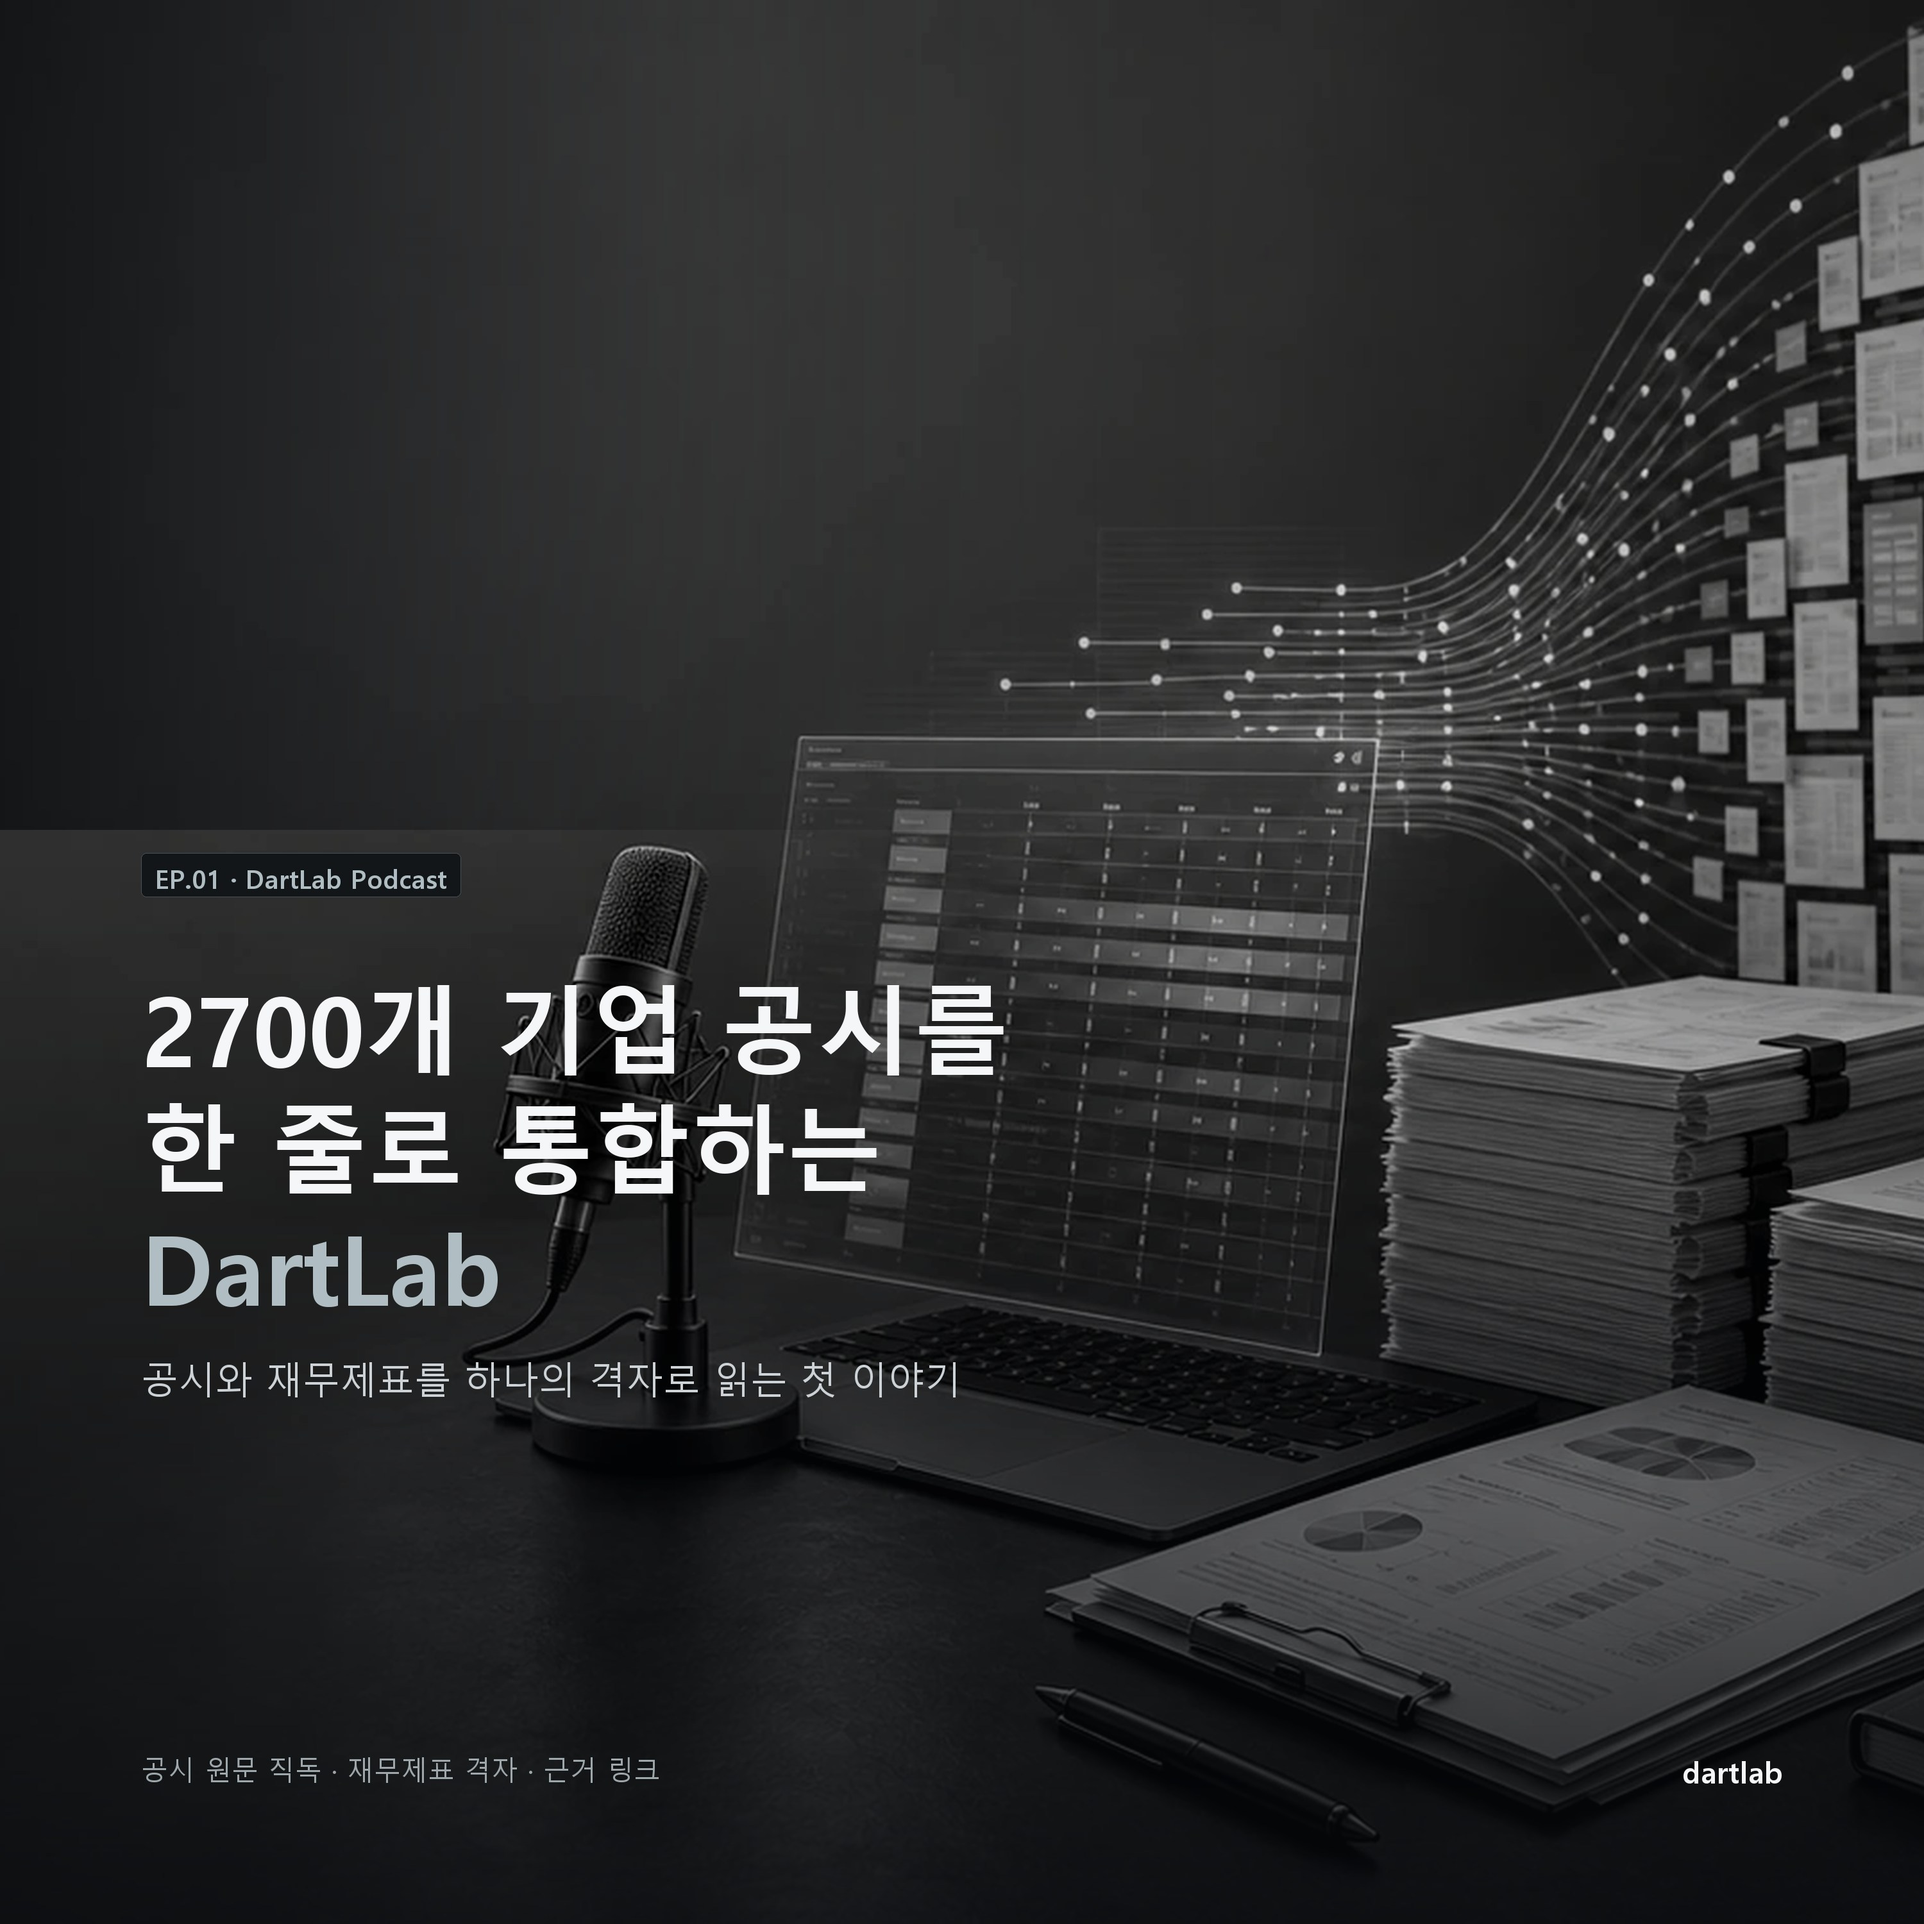
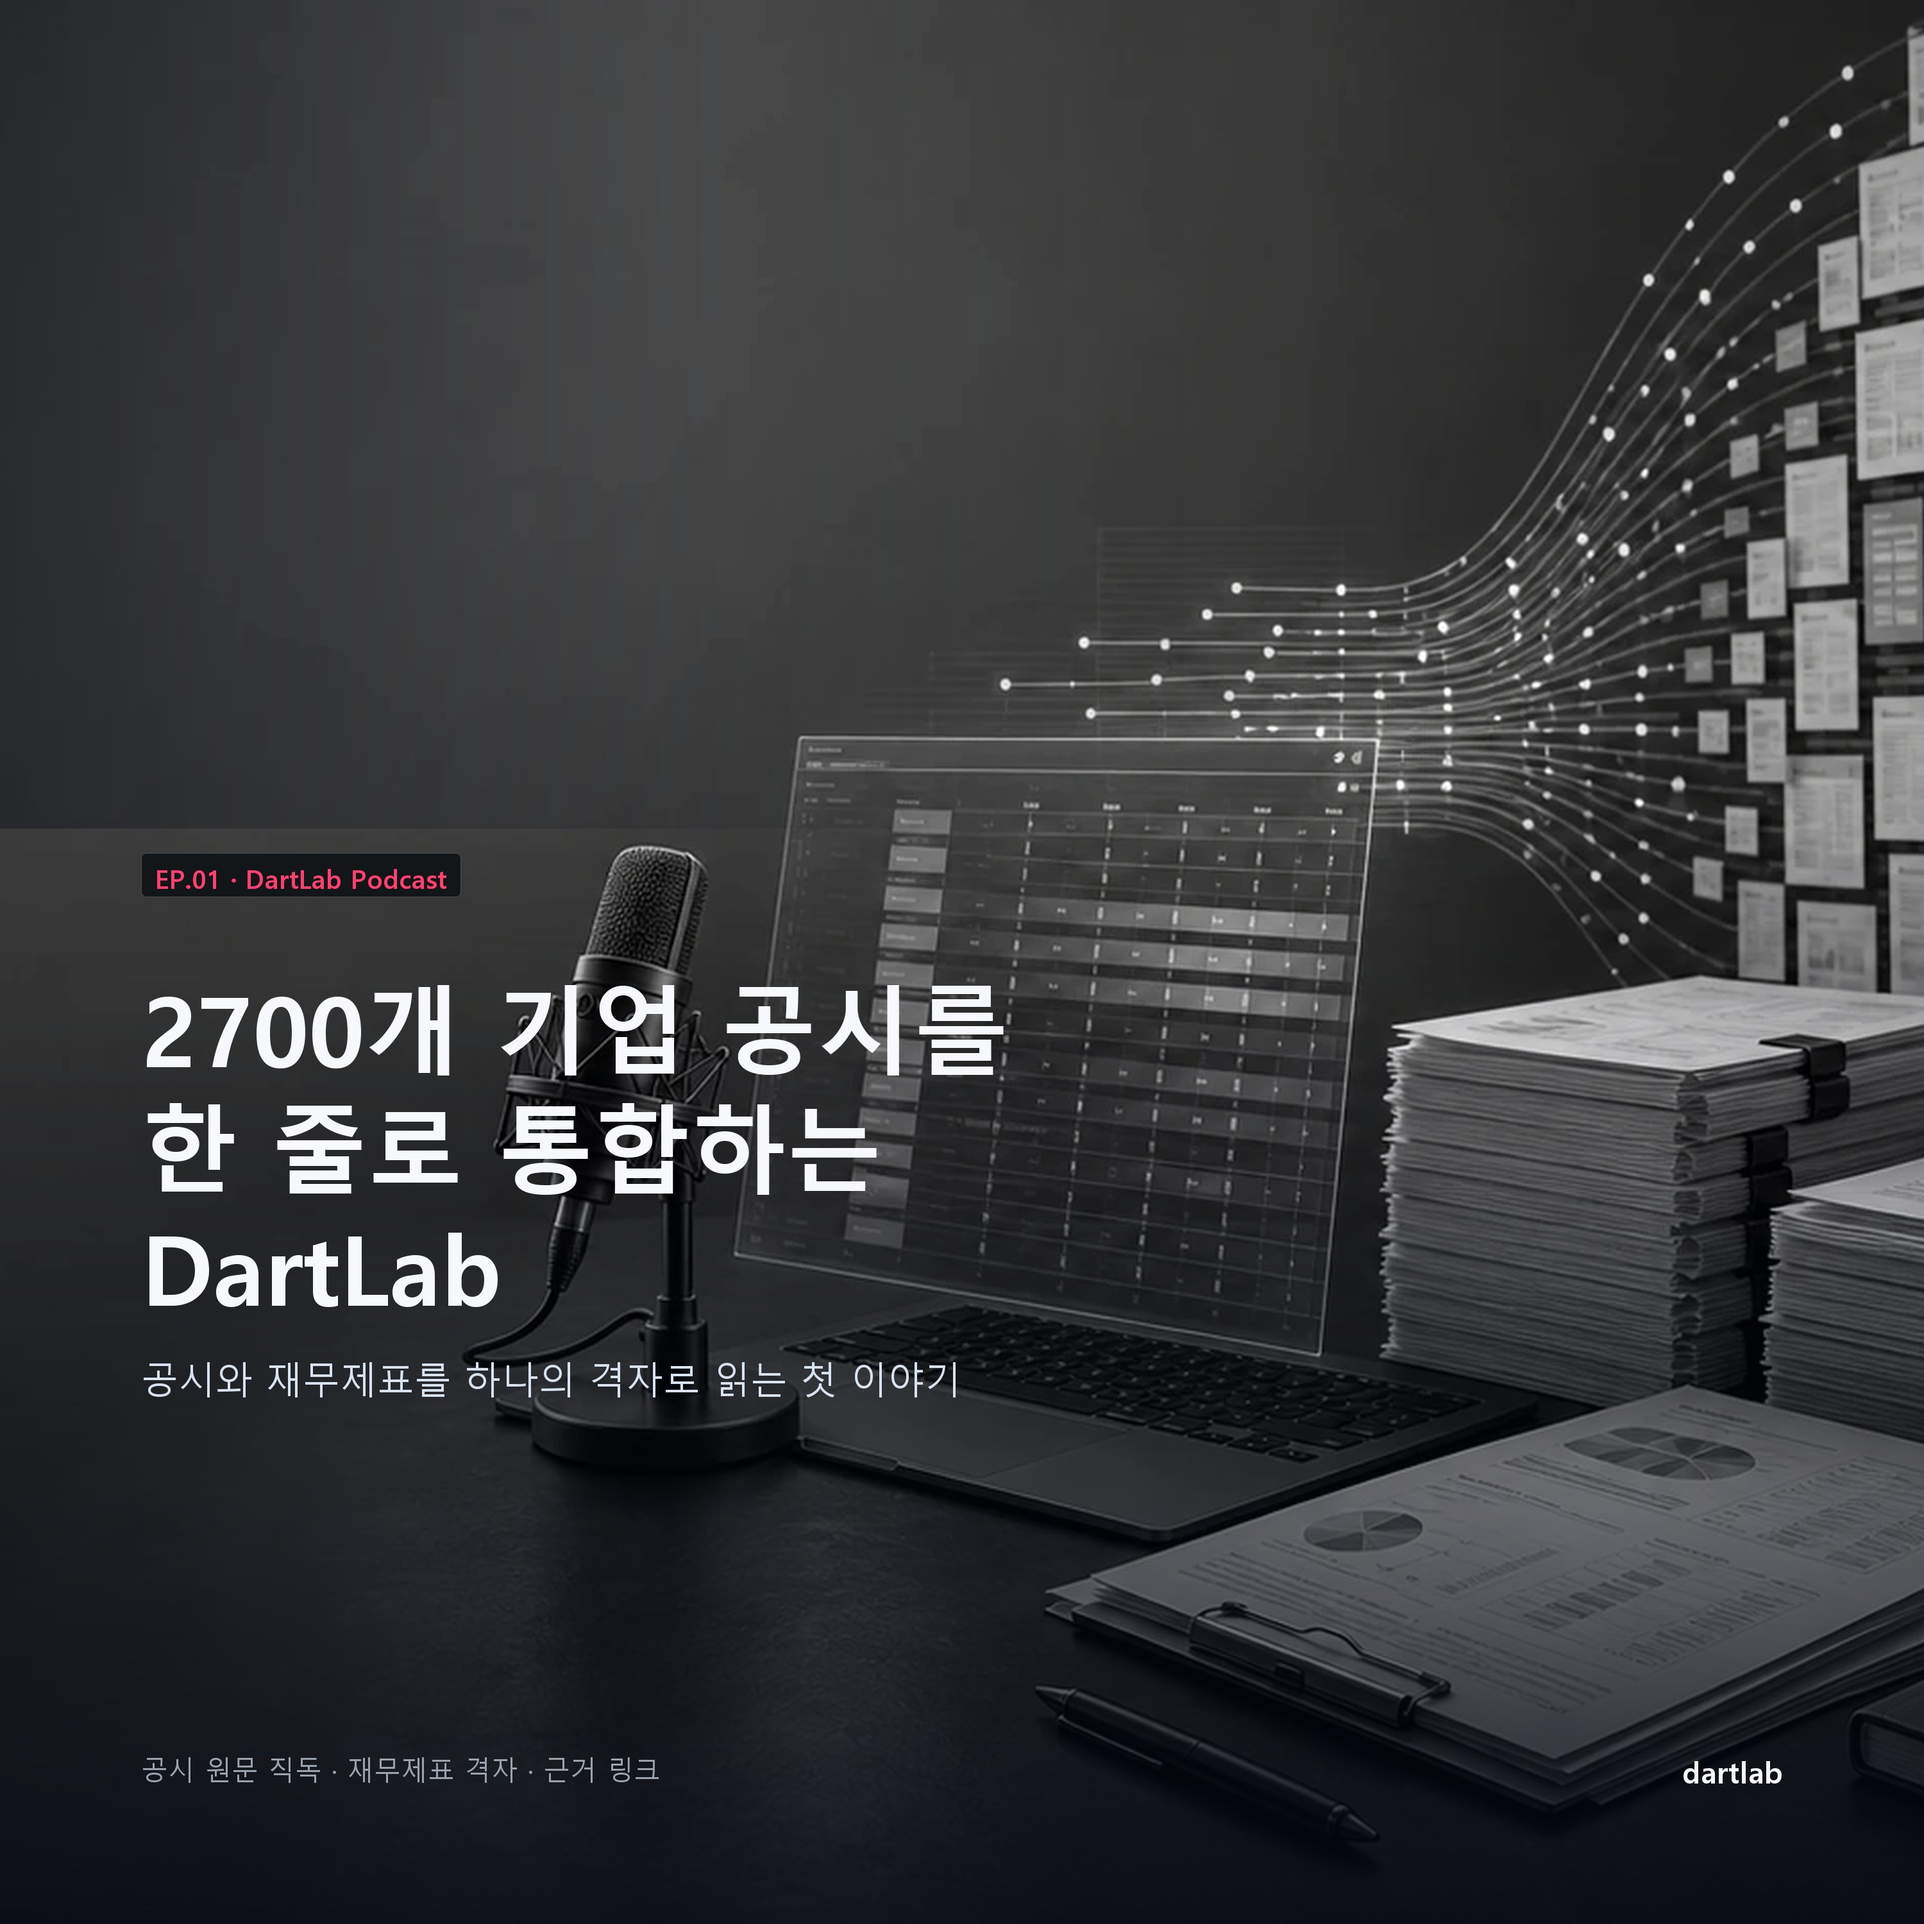
개선: 팟캐스트 스틸을 카드 시각언어(흑백+로즈 강조)로 렌더
- card_style.py: theme.ts/CardSlide 팔레트·grayscale 0.82/contrast 1.04/brightness 1.04·accentParts 파이썬 미러
- render_episode_image.py: 카드 룩 적용(로즈 #ff3f6f, [[강조]] 파싱, scrim 하단가중)
- publish_podcast.py: --render-images 로 발행 전 스틸 자동 생성
- P01 커버/정적 카드풍 재렌더(R2 반영은 다음 발행)

diff --git a/blog/_podcasts/_lib/render_episode_image.py b/blog/_podcasts/_lib/render_episode_image.py
@@ -11,6 +11,17 @@ import argparse
 from pathlib import Path
 
 import yaml
+from card_style import (
+    ACCENT_RGB,
+    BG_RGB,
+    BRIGHTNESS,
+    CONTRAST,
+    DIM_RGB,
+    GRAYSCALE,
+    INK_RGB,
+    MUTED_RGB,
+    accent_parts,
+)
 from PIL import Image, ImageDraw, ImageEnhance, ImageFont
 
 LIB_DIR = Path(__file__).resolve().parent
@@ -20,11 +31,12 @@ EPISODES_DIR = PODCAST_DIR / "episodes"
 FONT_BOLD = "C:/Windows/Fonts/malgunbd.ttf"
 FONT_REG = "C:/Windows/Fonts/malgun.ttf"
 
-INK = (244, 246, 248)
-DIM = (204, 210, 214)
-MUTED = (158, 167, 172)
-ACCENT = (176, 190, 196)
-BG = (6, 8, 11)
+# 카드 팔레트 미러(card_style): INK=본문, DIM=부제, MUTED=풋터, ACCENT=로즈 강조.
+INK = INK_RGB
+DIM = MUTED_RGB
+MUTED = DIM_RGB
+ACCENT = ACCENT_RGB
+BG = BG_RGB
 
 
 def load_episode(ep_dir: Path) -> dict:
@@ -55,9 +67,9 @@ def editorial_background(src: Path, width: int, height: int) -> Image.Image:
     im = Image.open(src).convert("RGB")
     im = cover_crop(im, width, height)
     gray = im.convert("L").convert("RGB")
-    im = Image.blend(im, gray, 0.9)
-    im = ImageEnhance.Contrast(im).enhance(1.08)
-    im = ImageEnhance.Brightness(im).enhance(0.84)
+    im = Image.blend(im, gray, GRAYSCALE)
+    im = ImageEnhance.Contrast(im).enhance(CONTRAST)
+    im = ImageEnhance.Brightness(im).enhance(BRIGHTNESS)
     return im
 
 
@@ -102,6 +114,16 @@ def truncate(d: ImageDraw.ImageDraw, text: str, f: ImageFont.FreeTypeFont, max_w
     return text.rstrip() + ell
 
 
+def draw_accent_line(
+    d: ImageDraw.ImageDraw, x: int, y: int, line: str, f: ImageFont.FreeTypeFont, ink: tuple, accent: tuple
+) -> None:
+    """한 줄을 그린다. `[[구절]]` 은 accent 색, 나머지는 ink (카드 강조 규약)."""
+    cx = x
+    for text, is_accent in accent_parts(line):
+        d.text((cx, y), text, fill=(accent if is_accent else ink), font=f)
+        cx += round(d.textlength(text, font=f))
+
+
 def visual_spec(meta: dict) -> dict:
     visual = meta.get("visual") or {}
     if not isinstance(visual, dict):
@@ -131,7 +153,7 @@ def draw_label(d: ImageDraw.ImageDraw, x: int, y: int, text: str, scale: float) 
 def draw_static(meta: dict, src: Path, out: Path) -> None:
     width, height = 1920, 1080
     spec = visual_spec(meta)
-    img = add_scrim(editorial_background(src, width, height), 212, 130)
+    img = add_scrim(editorial_background(src, width, height), 120, 165)
     d = ImageDraw.Draw(img)
 
     x = 128
@@ -142,9 +164,9 @@ def draw_static(meta: dict, src: Path, out: Path) -> None:
     y = 284
     for idx, line in enumerate(spec["titleLines"][:4]):
         size = 100 if idx < 3 else 82
-        f = fit_font(d, line, FONT_BOLD, size, max_w, 58)
-        fill = INK if "DartLab" not in line else ACCENT
-        d.text((x + 26, y), line, fill=fill, font=f)
+        plain = "".join(t for t, _ in accent_parts(line))
+        f = fit_font(d, plain, FONT_BOLD, size, max_w, 58)
+        draw_accent_line(d, x + 26, y, line, f, INK, ACCENT)
         y += f.size + 24
 
     sub_f = font(FONT_REG, 36)
@@ -163,7 +185,7 @@ def draw_static(meta: dict, src: Path, out: Path) -> None:
 def draw_cover(meta: dict, src: Path, out: Path) -> None:
     width, height = 3000, 3000
     spec = visual_spec(meta)
-    img = add_scrim(editorial_background(src, width, height), 168, 210)
+    img = add_scrim(editorial_background(src, width, height), 96, 225)
     d = ImageDraw.Draw(img)
 
     x = 220
@@ -172,9 +194,9 @@ def draw_cover(meta: dict, src: Path, out: Path) -> None:
     draw_label(d, x, y - 170, spec["kicker"], 1.35)
     for idx, line in enumerate(spec["titleLines"][:4]):
         size = 150 if idx < 3 else 124
-        f = fit_font(d, line, FONT_BOLD, size, max_w, 82)
-        fill = INK if "DartLab" not in line else ACCENT
-        d.text((x, y), line, fill=fill, font=f)
+        plain = "".join(t for t, _ in accent_parts(line))
+        f = fit_font(d, plain, FONT_BOLD, size, max_w, 82)
+        draw_accent_line(d, x, y, line, f, INK, ACCENT)
         y += f.size + 36
 
     sub_f = font(FONT_REG, 58)

diff --git a/blog/_podcasts/_lib/publish_podcast.py b/blog/_podcasts/_lib/publish_podcast.py
@@ -583,6 +583,16 @@ def upload_cover(env: dict, channel: dict, dry_run: bool) -> None:
     out_jpg.unlink(missing_ok=True)
 
 
+def render_episode_stills(episode_ids: list[str]) -> None:
+    """render_episode_image.py 를 subprocess 로 호출해 카드풍 스틸(커버/정적)을 생성한다(업로드 전)."""
+    renderer = LIB_DIR / "render_episode_image.py"
+    for ep_id in episode_ids:
+        try:
+            subprocess.run([sys.executable, str(renderer), "--episode", ep_id], check=True)
+        except subprocess.CalledProcessError as exc:
+            print(f"[render] {ep_id} 스틸 생성 실패(소스 없음 등), 건너뜀: {exc}")
+
+
 def upload_episode_images(env: dict, channel: dict, records: list[dict], dry_run: bool) -> None:
     """에피소드별 커버와 썸네일 소스를 정규화해 R2 로 업로드."""
     tmp = LIB_DIR / ".tmp"
@@ -687,6 +697,9 @@ def main(argv: list[str]) -> int:
     parser.add_argument("--no-hf-source-assets", action="store_true", help="원본 이미지 HF 업로드 건너뜀")
     parser.add_argument("--hf-source-assets-only", action="store_true", help="R2 없이 원본 이미지만 HF 업로드")
     parser.add_argument("--hf-repo", default=HF_MEDIA_REPO, help="원본 이미지를 올릴 HF dataset repo")
+    parser.add_argument(
+        "--render-images", action="store_true", help="업로드 전 render_episode_image.py 로 카드풍 스틸(커버/정적) 생성"
+    )
     parser.add_argument("--dry-run", action="store_true", help="업로드 없이 로컬 검증")
     args = parser.parse_args(argv)
 
@@ -720,6 +733,9 @@ def main(argv: list[str]) -> int:
 
     if not args.no_cover:
         upload_cover(env, channel, args.dry_run)
+    if args.render_images:
+        render_ids = [args.episode] if args.episode else [r["episodeId"] for r in records]
+        render_episode_stills([e for e in render_ids if e])
     upload_episode_images(env, channel, records, args.dry_run)
     if not args.no_hf_source_assets:
         upload_hf_source_assets(records, args.dry_run, args.hf_repo)

diff --git a/blog/_podcasts/_lib/card_style.py b/blog/_podcasts/_lib/card_style.py
@@ -1,0 +1,35 @@
+"""카드 시각 언어 상수 (파이썬 미러).
+
+정본(시각 SSOT)은 프론트다. 이 파일은 팟캐스트 스틸 렌더가 카드와 같은 룩을 내도록
+그 값을 파이썬으로 포팅한 미러다. 값이 바뀌면 여기도 동기화한다.
+  - 팔레트: landing/src/lib/cards/theme.ts 의 CARD
+  - 편집 카드 그레이스케일 필터: landing/src/lib/cards/CardSlide.svelte 의 .pm-editorial .bg
+드리프트 가드: tests 에서 이 상수들이 위 정본값과 일치하는지 검사한다.
+"""
+
+from __future__ import annotations
+
+import re
+
+# theme.ts CARD 팔레트 (hex -> RGB)
+ACCENT_RGB = (255, 63, 111)  # CARD.accent #ff3f6f (rose, 한 구절 강조)
+INK_RGB = (246, 248, 251)  # CARD.text #f6f8fb (본문 흰색)
+MUTED_RGB = (216, 226, 240)  # CARD.textMuted #d8e2f0 (부제)
+DIM_RGB = (154, 163, 173)  # CARD.textDim #9aa3ad (풋터)
+BG_RGB = (5, 8, 17)  # CARD.bgDark #050811 (scrim 베이스)
+
+# CardSlide .pm-editorial .bg filter: grayscale(0.82) contrast(1.04) brightness(1.04)
+GRAYSCALE = 0.82
+CONTRAST = 1.04
+BRIGHTNESS = 1.04
+
+
+def accent_parts(text: str) -> list[tuple[str, bool]]:
+    """theme.ts accentParts 포팅: `[[구절]]` 을 (text, accent) 토막으로 쪼갠다."""
+    out: list[tuple[str, bool]] = []
+    for part in re.split(r"(\[\[[^\]]+\]\])", str(text or "")):
+        if part == "":
+            continue
+        match = re.match(r"^\[\[([^\]]+)\]\]$", part)
+        out.append((match.group(1), True) if match else (part, False))
+    return out
